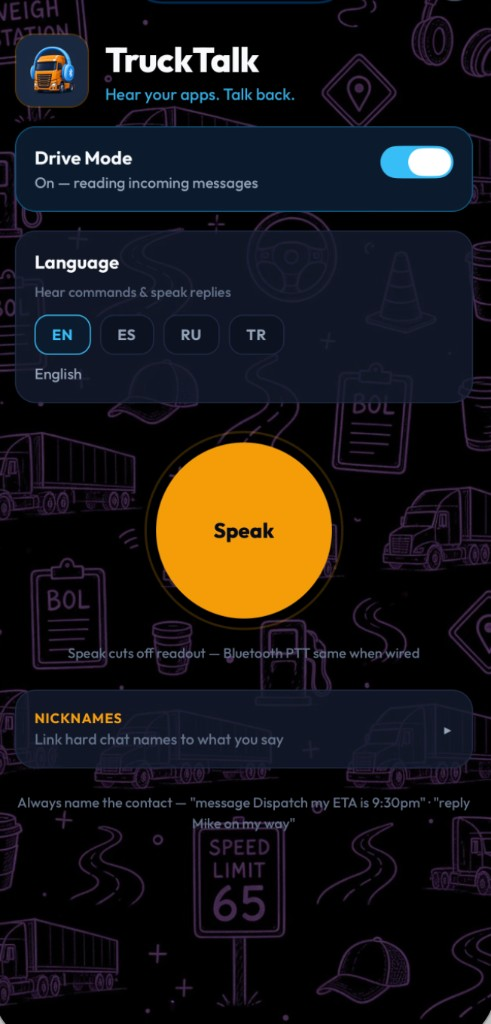
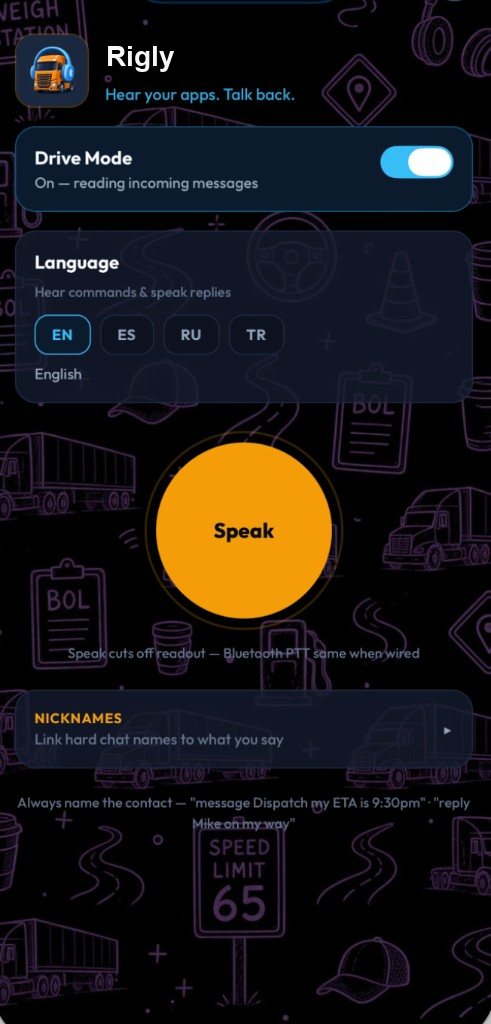
Rename the marketing site to Rigly and price it at $19.99.
Point support and the early-access form at fahadzakir@gmail.com.

Changed region(s): [[0.2138, 0.0312, 0.5193, 0.0938]]

diff --git a/index.html b/index.html
@@ -3,12 +3,12 @@
   <head>
     <meta charset="UTF-8" />
     <meta name="viewport" content="width=device-width, initial-scale=1" />
-    <title>TruckTalk — Hear your apps. Talk back.</title>
+    <title>Rigly — Hear your apps. Talk back.</title>
     <meta
       name="description"
-      content="Bluetooth voice for the cab. TruckTalk reads load boards aloud, answers questions about pay and stops, and lets you reply on Telegram — hands-free."
+      content="Bluetooth voice for the cab. Rigly reads load boards aloud, answers questions about pay and stops, and lets you reply on Telegram — hands-free."
     />
-    <meta property="og:title" content="TruckTalk — Hear your apps. Talk back." />
+    <meta property="og:title" content="Rigly — Hear your apps. Talk back." />
     <meta
       property="og:description"
       content="Decipher load boards by voice over Bluetooth. Ask about rate, stops, miles — then reply without looking at the screen."
@@ -29,7 +29,7 @@
     <header class="topbar">
       <a class="brand" href="#top">
         <img src="assets/icon.png" alt="" width="40" height="40" />
-        <span>TruckTalk</span>
+        <span>Rigly</span>
       </a>
       <nav class="nav">
         <a href="#loads">Loads</a>
@@ -42,11 +42,11 @@
     <main id="top">
       <section class="hero">
         <div class="hero-copy">
-          <p class="brand-mark">TruckTalk</p>
+          <p class="brand-mark">Rigly</p>
           <h1>Hear your apps.<br />Talk back.</h1>
           <p class="lede">
             Your main job in the cab: understand the load without staring at the phone.
-            TruckTalk reads load boards aloud over Bluetooth, answers follow-up questions,
+            Rigly reads load boards aloud over Bluetooth, answers follow-up questions,
             then lets you message dispatch — eyes on the road.
           </p>
           <div class="cta-row">
@@ -67,7 +67,7 @@
           <img
             class="phone-shot"
             src="assets/app-screenshot.png"
-            alt="TruckTalk app showing Drive Mode on, language picker, and Speak button"
+            alt="Rigly app showing Drive Mode on, language picker, and Speak button"
             width="390"
             height="844"
           />
@@ -84,7 +84,7 @@
           <code>want the details?</code>
           <code>what’s the rate?</code>
           <code>cómo está el rate?</code>
-          <code>message Dispatch my ETA is 9:30pm</code>
+          <code>Rigly it to Dispatch, ETA 9:30</code>
         </div>
         <p class="strip-note">Switch languages in the app — same Speak button, same confirm flow.</p>
       </section>
@@ -93,7 +93,7 @@
         <header class="section-head">
           <h2>Loads, by voice</h2>
           <p>
-            The core of TruckTalk: when a load board lands in Telegram, it decipheres the board —
+            The core of Rigly: when a load board lands in Telegram, it decipheres the board —
             pay, stops, miles, deadhead, trailer — reads it aloud, then keeps answering questions
             until you message a contact.
           </p>
@@ -172,7 +172,7 @@
           </article>
           <article>
             <h3>Drive Mode alerts</h3>
-            <p>Incoming Telegram spoken when TruckTalk isn’t focused. No banner spam when you’re already in the app.</p>
+            <p>Incoming Telegram spoken when Rigly isn’t focused. No banner spam when you’re already in the app.</p>
           </article>
           <article>
             <h3>Voice nicknames</h3>
@@ -199,7 +199,7 @@
           <ul>
             <li>Voice load intelligence across the fleet</li>
             <li>Nickname maps for dispatch / broker chats</li>
-            <li>Works alongside navigation — alerts when TruckTalk isn’t focused</li>
+            <li>Works alongside navigation — alerts when Rigly isn’t focused</li>
           </ul>
           <a class="btn btn-primary" href="#waitlist">Talk to us about fleet access</a>
         </div>
@@ -214,7 +214,7 @@
       <section class="section drivers">
         <header class="section-head">
           <h2>For owner-ops &amp; company drivers</h2>
-          <p>Telegram stays your channel. TruckTalk is the voice layer for loads and replies.</p>
+          <p>Telegram stays your channel. Rigly is the voice layer for loads and replies.</p>
         </header>
         <div class="driver-points">
           <p><strong>Load board photo drops in</strong> — hear the summary, then ask follow-ups.</p>
@@ -225,7 +225,7 @@
 
       <section id="download" class="section download">
         <header class="section-head">
-          <h2>Get TruckTalk</h2>
+          <h2>Get Rigly</h2>
           <p>Coming soon on the App Store and Google Play. Join early access while we finish the store builds.</p>
         </header>
         <div class="store-row store-row-lg">
@@ -241,13 +241,13 @@
 
         <aside class="pricing" id="pricing">
           <p class="pricing-eyebrow">Voice Load Intelligence</p>
-          <p class="pricing-price"><span>$12.99</span> / month</p>
-          <p class="pricing-title">Tier 1 — AI load reading &amp; Q&amp;A</p>
+          <p class="pricing-price"><span>$19.99</span></p>
+          <p class="pricing-title">AI load reading &amp; Q&amp;A</p>
           <p class="pricing-copy">
-            Most chat apps are cheap because they only move text. TruckTalk’s load feature runs a
+            Most chat apps are cheap because they only move text. Rigly runs a
             real vision model on every board screenshot — extracting stops, miles, deadhead, rate,
-            and pay — then answers follow-ups by voice. That burns AI tokens on each read and each
-            question, so Tier 1 covers the model cost instead of nickel-and-diming you per board.
+            and pay — then answers follow-ups by voice. $19.99 is the app, including those reads
+            and questions, instead of a charge per board.
           </p>
           <ul class="pricing-list">
             <li>Load board decipher (vision + OCR)</li>
@@ -264,7 +264,7 @@
         </header>
         <div class="faq-list">
           <details open>
-            <summary>What does TruckTalk do with load boards?</summary>
+            <summary>What does Rigly do with load boards?</summary>
             <p>
               It reads the image, extracts stops, miles, deadhead, rate, and pay, speaks a summary,
               then answers follow-up questions over Bluetooth until you message a contact.
@@ -272,7 +272,7 @@
           </details>
           <details>
             <summary>Is this WhatsApp or a full TMS?</summary>
-            <p>No. TruckTalk is Telegram-first today — send, read, call, and Drive Mode announcements. Not a TMS replacement.</p>
+            <p>No. Rigly is Telegram-first today — send, read, call, and Drive Mode announcements. Not a TMS replacement.</p>
           </details>
           <details>
             <summary>Will it send without me knowing?</summary>
@@ -290,7 +290,7 @@
           <h2>Get early access</h2>
           <p>Drivers and fleets — tell us how you run loads and Telegram on the road.</p>
         </header>
-        <form class="waitlist-form" action="mailto:hello@trucktalk.app" method="get" enctype="text/plain">
+        <form class="waitlist-form" action="mailto:fahadzakir@gmail.com" method="get" enctype="text/plain">
           <label>
             Name
             <input type="text" name="name" required placeholder="Fahad" autocomplete="name" />
@@ -320,7 +320,7 @@
       <div class="footer-brand">
         <img src="assets/icon.png" alt="" width="32" height="32" />
         <div>
-          <strong>TruckTalk</strong>
+          <strong>Rigly</strong>
           <p>Hear your apps. Talk back.</p>
         </div>
       </div>

diff --git a/privacy.html b/privacy.html
@@ -1,0 +1,29 @@
+<!DOCTYPE html>
+<html lang="en">
+  <head>
+    <meta charset="UTF-8" />
+    <meta name="viewport" content="width=device-width, initial-scale=1" />
+    <title>Rigly privacy</title>
+    <style>
+      body { font-family: -apple-system, BlinkMacSystemFont, "Segoe UI", sans-serif; max-width: 40rem; margin: 2rem auto; padding: 0 1.25rem; line-height: 1.5; color: #0f172a; }
+      h1 { font-size: 1.6rem; }
+      h2 { font-size: 1.05rem; margin-top: 1.5rem; }
+    </style>
+  </head>
+  <body>
+    <h1>Rigly privacy</h1>
+    <p>Rigly reads Telegram for you and answers questions about load photos. This page says what the app handles.</p>
+    <h2>Telegram</h2>
+    <p>You sign in with your own Telegram account. Rigly stores that login on its server so it can read incoming messages and send the replies you confirm. Messages you ask it to read, including photos, are processed to speak them and to answer your questions.</p>
+    <h2>Voice</h2>
+    <p>The microphone and speech recognition hear your commands. Spoken replies are played on your phone or headset.</p>
+    <h2>Load photos and AI</h2>
+    <p>When you ask about a load image, Rigly sends that image and your question to an AI service to extract the load and answer. Those answers are spoken back to you. Do not send a photo you do not want used for that.</p>
+    <h2>Notifications</h2>
+    <p>With Drive Mode on, Rigly can send a notification when a new message arrives and the app is not on screen. Drive Mode also mutes Telegram’s own alerts while it is on.</p>
+    <h2>What we don’t do</h2>
+    <p>Rigly does not sell your messages, photos, or voice. The app is not for children.</p>
+    <h2>Contact</h2>
+    <p>Questions: <a href="mailto:fahadzakir@gmail.com">fahadzakir@gmail.com</a></p>
+  </body>
+</html>

diff --git a/support.html b/support.html
@@ -1,0 +1,18 @@
+<!DOCTYPE html>
+<html lang="en">
+  <head>
+    <meta charset="UTF-8" />
+    <meta name="viewport" content="width=device-width, initial-scale=1" />
+    <title>Rigly support</title>
+    <style>
+      body { font-family: -apple-system, BlinkMacSystemFont, "Segoe UI", sans-serif; max-width: 40rem; margin: 2rem auto; padding: 0 1.25rem; line-height: 1.5; color: #0f172a; }
+      h1 { font-size: 1.6rem; }
+    </style>
+  </head>
+  <body>
+    <h1>Rigly support</h1>
+    <p>Rigly hears your Telegram messages, reads load photos, and lets you ask follow-up questions by voice.</p>
+    <p>Sign in with the Telegram account you drive with. Turn Drive Mode on to mute Telegram’s own alerts while Rigly reads new messages. Say yes when it asks about a load photo, then ask things like the rate, the stops, or the miles.</p>
+    <p>Email <a href="mailto:fahadzakir@gmail.com">fahadzakir@gmail.com</a> if something breaks or you need help signing in.</p>
+  </body>
+</html>

diff --git a/main.js b/main.js
@@ -10,13 +10,13 @@
     const role = String(data.get("role") || "").trim();
     const notes = String(data.get("notes") || "").trim();
 
-    const subject = encodeURIComponent(`TruckTalk early access — ${role}`);
+    const subject = encodeURIComponent(`Rigly early access — ${role}`);
     const body = encodeURIComponent(
       [`Name: ${name}`, `Email: ${email}`, `Role: ${role}`, notes ? `Notes: ${notes}` : ""]
         .filter(Boolean)
         .join("\n"),
     );
 
-    window.location.href = `mailto:hello@trucktalk.app?subject=${subject}&body=${body}`;
+    window.location.href = `mailto:fahadzakir@gmail.com?subject=${subject}&body=${body}`;
   });
 })();

diff --git a/README.md b/README.md
@@ -1,6 +1,6 @@
-# TruckTalk marketing site
+# Rigly marketing site
 
-Public landing page for TruckTalk — voice-first Telegram co-pilot for truck drivers.
+Public landing page for Rigly — voice-first Telegram co-pilot for truck drivers.
 
 **Tagline:** Hear your apps. Talk back.
 
